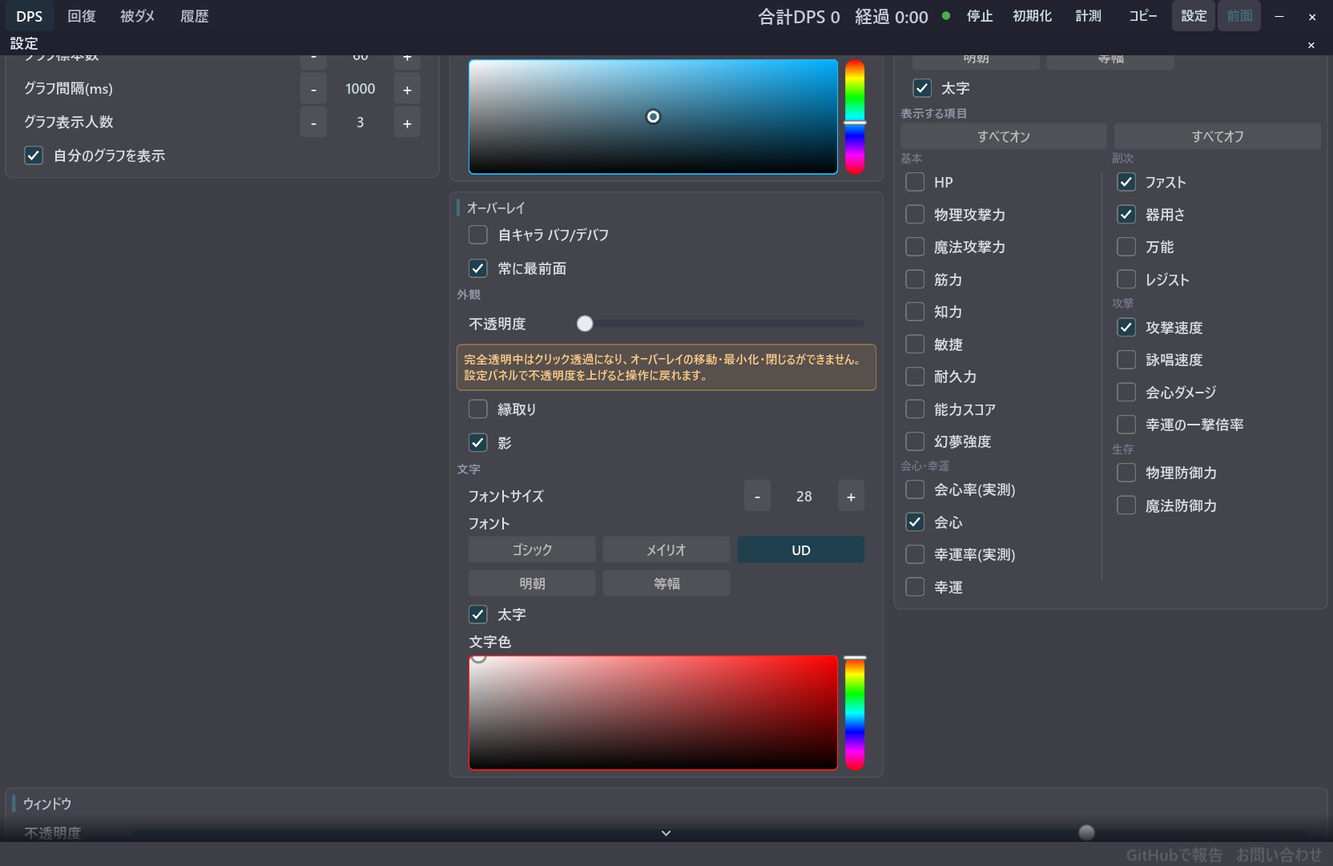
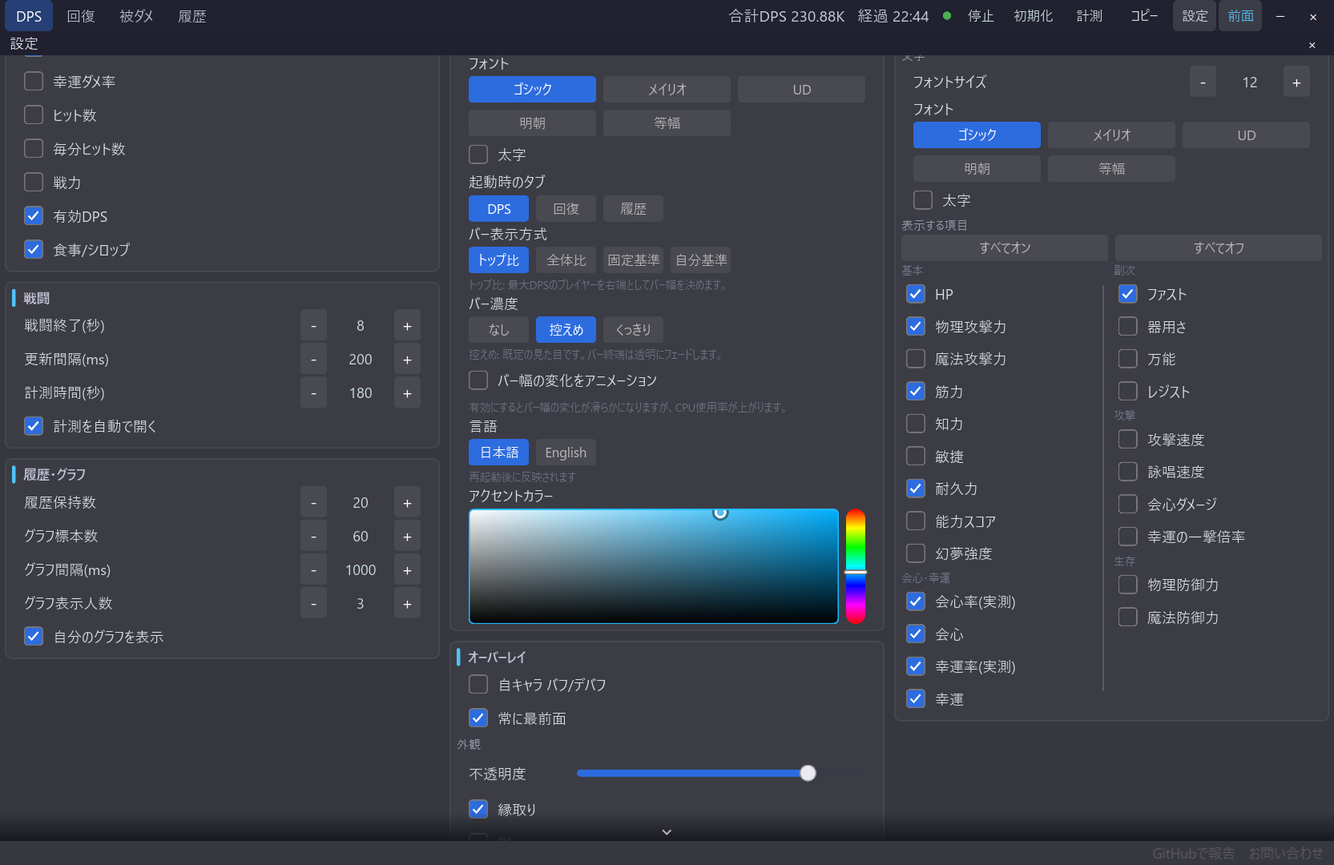
docs: 機能別スクリーンショットを刷新

diff --git a/README.en.md b/README.en.md
@@ -13,39 +13,47 @@
 Built with **Slint (a native Rust GUI)**. It focuses on just the features you actually need during combat and measurement, so it keeps CPU and memory usage low and stays smooth even over long sessions, while still letting you display a semi-transparent overlay on top of the game. **It never sends any data to external servers.**
 
 <p align="center">
-  <img src="docs/images/main.png" alt="Main window — DPS list (semi-transparent overlay)" width="820">
+  <img src="docs/images/feature-language-english.png" alt="Main window — normal DPS list in English" width="820">
 </p>
 
 ## Features
 
-- **DPS / Healing / Damage Taken / History tabs** — Aggregates damage dealt, healing, and damage taken with tab switching (column headers and totals follow the tab). Encounters are saved automatically when combat ends, and **past logs survive app restarts** (stored on disk).
-- **Per-skill breakdown** — Click a player to see damage, hit count, and crit rate for each of that player's skills.
-- **Battle Imagine name** — Shows each player's equipped Battle Imagines (Tina / Airona / Tatta / Basilisk, etc.) with their tier level appended to the name column of the DPS list (e.g. `Sora-Tina(3)/Airona(1)`). Your own is detected on every map transition; other players are detected when a dungeon loads or a boss room transition occurs, so even Imagines that rarely activate are reliably shown. Simplified Battle Imagines slotted into the Role Skill category (up to 4 at once) are shown separately from your two equipped Battle Imagines, appended in `(R:name)` form (e.g. `Sora-Tina(3)/Airona(1) (R:Tempest Ogre/Fafala)`). `{imagine}` (the two equipped slots) and `{roleSkill}` (the Role Skill slots) are independent tokens in the name-column template, so each can be repositioned or removed to hide. When the column runs out of width, role skills are shortened first, then Imagines, and the player name last. It is always shown in the header of the per-skill breakdown you open by clicking a player. Imagine names can be maintained manually in a dedicated editor window opened from Settings — override display names or hide specific Imagines (overrides affect display only, never detection or records).
-- **Measurement mode** — A dedicated mode for training dummies and boss practice that aggregates for a fixed duration from the start of combat (default 180s, adjustable). The results screen shows per-character and per-skill DPS trend graphs (with time and DPS axes) and a pie chart of the skill breakdown (TOP 10 + others). It also **auto-records your personal best per measurement duration** and celebrates with a "New record!" badge; the TOP 3 are highlighted in gold/silver/bronze, and a timestamped result image can be copied with one click to share on Discord and elsewhere. DPS during and after the measurement is divided by the fixed duration from the start of the measurement (idle time counts toward the denominator too, matching the in-game measurement).
-- **Effective DPS column** — Shows DPS divided only by the time you were actually attacking, side by side with the regular DPS (toggle it in the column settings). Useful in real fights with movement and downtime, where you want your output with the idle time excluded.
-- **Imagine (Battle Imagine) debuff timer** — Displays the remaining immunity-debuff time for Tina / Aluna / Tata / Basilisk / Kartgriff in a separate overlay. By default it syncs with the DPS list, automatically following which players are shown and their order (order-following can be turned off individually); use the pin icon to hide/show each player in the timer. Turn sync off to fall back to the classic mode that only shows targets you pinned manually, with a clear-all action provided. The Imagine types shown can be selected individually to match your party composition. A compact dense layout is also supported. Column headers show the katakana name and a per-character color ring (Tina red / Aluna green / Tata purple / Basilisk brown / Kartgriff cyan) for visibility.
-- **Self buff/debuff display** — Shows the buffs/debuffs currently on your own character in a separate window. They are shown as icons with a remaining-time bar so you can grasp them at a glance. Stacking buffs follow the stack count (×N) and timer updates.
-- **Self status display** — Shows your character's stats such as Attack, Crit, and HP in a dedicated real-time overlay. Which items to show can be freely customized per in-game panel group (bulk ON/OFF supported).
-- **Food / syrup display** — Shows each player's food and syrup buff usage as a vertical remaining-time timer in the name column of the DPS list. Hover an icon to see the effect and remaining time. Remaining time is preserved across combat end, manual reset, and app restart (expired ones disappear automatically). Can be toggled ON/OFF in settings.
-- **Debuff-timer-only mode (lightweight)** — A resource-saving mode that stops DPS/healing aggregation and runs only the debuff timer. While it is on, the DPS list shows "Imagine-only mode is active" so the paused aggregation is obvious, with a button to turn it off without opening the settings panel.
-- **Class icon display** — Shows the class icon, tinted by role color (attacker / tank / healer), at the `{classIcon}` position in the DPS name-column template (before the name by default). Remove the token to hide it.
-- **Selectable row-bar display mode** — Choose from 4 scales for the horizontal bar (gauge) of each row in the DPS list: relative to top (default) / share of party total / fixed scale (the right edge is pinned to a user-specified value and the bar length shows your average DPS over the last N seconds) / self-relative (your own bar is fixed at the 50% position and other players are shown relative to you, with a 50% guide line). Bar intensity can be set to none / subtle / strong, and an optional animation smooths bar-width changes (off by default since it slightly increases CPU usage).
-- **2-column compact layout** — A layout mode that splits the DPS table into two columns to save horizontal space.
-- **DPS trend graph** — Visualizes each player row's DPS trend as a small sparkline.
-- **Always-on-top / click-through / taskbar–tray switching** — Essential for overlay use. Buttons in the title bar let you minimize and toggle always-on-top pinning with one tap, and when the window is narrow the header automatically switches to icon-only. Minimizing collapses to the **system tray** by default (minimizing the main window also tucks away the overlays; restore via left-click on the tray icon or right-click → "Show main"). Enabling "Keep in taskbar" in settings makes the main window and each overlay their **own taskbar buttons**, so each window's minimize button minimizes it to the taskbar. Each overlay can be closed with the × button at the top right (linked to the show toggle in settings). Click-through (passing clicks through to the game behind) is toggled and released from the tray. Each window can be resized by dragging its edges.
-- **Global shortcut keys** — Assign global shortcut keys (they work even while the game window has focus) to reset, pause/resume, start/cancel the 3-minute measurement, copy the list, and toggle always-on-top. Configured from the settings panel; nothing is assigned by default. Keys other than F1-F12 must be combined with Ctrl, Alt, or Win, but a checkbox in the dialog also allows single-key shortcuts.
-- **Overlay appearance customization** — The background opacity, font, text size, bold, and text color of each overlay can be configured independently of the main window. Text color and the app's accent color can be freely adjusted with an HSV picker.
-- **Copy templates** — Copy aggregated results to the clipboard in any format (e.g. for pasting into Discord).
-- **Multi-language** — Japanese / English.
-- **Character selection** — When auto-detection is wrong, you can fix your own character by entering its UID directly in the settings panel or selecting from the current player candidates (the name is resolved and shown from the name cache).
-- **Footer contact links** — A semi-transparent footer at the bottom of the main window (can be hidden in settings) lets you open a contact form or file a GitHub issue in your default browser.
+Feature details and screenshots are organized into separate pages.
 
-### Screenshots
+### Metrics and measurement
 
-| | |
-|---|---|
-| <img src="docs/images/result-3min.png" alt="3-minute measurement results" width="400"><br>**3-minute measurement results** — Per-character/skill DPS trends and a breakdown pie chart | <img src="docs/images/debuff-timer.png" alt="Imagine debuff timer" width="400"><br>**Imagine debuff timer** — Immunity-debuff remaining time shown with per-character color rings |
-| <img src="docs/images/self-status.png" alt="Self buff/debuff display" width="400"><br>**Self buff/debuff display** — A glanceable list of icons with remaining-time bars | <img src="docs/images/settings.png" alt="Settings panel" width="400"><br>**Settings panel** — Opacity, column visibility, copy templates, and more |
+- [DPS, healing, damage taken, and history tabs](docs/features/metrics-tabs.md)
+- [Per-skill breakdown](docs/features/skill-breakdown.md)
+- [Measurement mode](docs/features/measurement-mode.md)
+- [Effective DPS column](docs/features/effective-dps.md)
+- [DPS trend graphs](docs/features/dps-trend.md)
+
+### Player information and buffs
+
+- [Battle Imagine names](docs/features/battle-imagine-names.md)
+- [Imagine debuff timer](docs/features/imagine-debuff-timer.md)
+- [Self buff/debuff overlay](docs/features/self-buffs-debuffs.md)
+- [Self status overlay](docs/features/self-status.md)
+- [Food and syrup display](docs/features/food-syrup.md)
+- [Imagine-only mode](docs/features/imagine-only-mode.md)
+- [Class icons](docs/features/class-icons.md)
+- [Character selection](docs/features/character-selection.md)
+
+### Display and controls
+
+- [Row-bar display modes](docs/features/dps-bars.md)
+- [Two-column compact layout](docs/features/compact-layout.md)
+- [Overlay window controls](docs/features/overlay-window-controls.md)
+- [Global shortcuts](docs/features/global-shortcuts.md)
+- [Overlay appearance](docs/features/overlay-appearance.md)
+- [Copy templates](docs/features/copy-templates.md)
+
+### Other
+
+- [Language support](docs/features/multilanguage.md)
+- [Footer contact links](docs/features/contact-links.md)
+
+> Feature pages are currently written in Japanese; the screenshots include both Japanese and English UI where relevant.
 
 ## Installation
 
@@ -121,7 +129,7 @@ For details, see [`core/src/capture/windivert.rs`](./core/src/capture/windivert.
 1. Launch the app (UAC will request administrator privileges, just like the game).
 2. Start the game and begin combat — damage is detected automatically.
 3. Click a player row to see the per-skill breakdown.
-4. When combat ends (no damage for 10 seconds by default), it is saved to history automatically.
+4. When combat ends (no damage for 8 seconds by default), it is saved to history automatically.
 
 ### System tray
 
@@ -133,7 +141,7 @@ For details, see [`core/src/capture/windivert.rs`](./core/src/capture/windivert.
 
 ### Settings panel
 
-Open it with the **S** button in the header. Main items:
+Open it with the **Settings** button in the header (slider icon in narrow layouts). Main items:
 
 - Fixing your character UID / selecting from candidates
 - Opacity, font size, column visibility (including ON/OFF for food/syrup display)

diff --git a/docs/images/SHOTLIST.md b/docs/images/SHOTLIST.md
@@ -1,54 +1,47 @@
 # ドキュメント用スクリーンショット
 
-README と機能ドキュメントが参照する画像一覧。全てデモモード（下記）で撮影したもので、
-実プレイヤーの名前・データは一切含まない（プレイヤー名は架空、対象は訓練用ダミー）。
+README と機能ドキュメントで使う実機 UI の撮影台帳です。すべて隔離したデモ用 `APPDATA` と合成データで撮影しており、実プレイヤーの情報は含みません。通常利用では使わない「軽量分割表示」は、その機能ページの2枚だけに限定しています。
 
 | ファイル名 | 内容 |
 |---|---|
-| `main.png` | メイン画面（DPS タブ・8人パーティ・行スパークライン・自分強調。ヘッダーは観測ドット/停止/初期化/計測/コピー/設定/前面ピン/最小化） |
-| `result-3min.png` | 3 分計測の結果画面（DPS 推移折れ線＋スキル円グラフ＋画像コピー） |
-| `debuff-timer.png` | イマジンデバフタイマー（4人追跡・色リング） |
-| `self-status.png` | 自キャラ バフ/デバフ（残時間バー・×N スタック表示） |
-| `feature-compact-layout.png` | 軽量分割表示を ON にした実際の2列 DPS 一覧 |
-| `feature-effective-dps.png` | 有効 DPS 列を表示した実際の DPS 一覧 |
-| `feature-history.png` | 履歴タブを開いた実際のメイン画面 |
-| `feature-skill-breakdown.png` | プレイヤーのスキル別ダメージ内訳画面 |
-| `feature-imagine-only.png` | イマジン専用モードの専用バナー画面 |
+| `feature-main-overview.png` | 通常表示の DPS 一覧。8人、職業アイコン、イマジン名、食事/シロップ、推移、行バー、ヘッダー、フッター |
+| `feature-skill-breakdown.png` | 通常一覧から開いたプレイヤーのスキル別ダメージ・DPS・構成比 |
+| `result-measurement.png` | 計測結果。順位、推移グラフ、スキル一覧、円グラフ、コピー操作、v1.25.0 |
+| `feature-history.png` | 実際に完了した計測結果が1件入った履歴タブ |
+| `feature-effective-dps.png` | 有効 DPS 列を表示した通常一覧 |
+| `feature-effective-dps-settings.png` | 有効 DPS 列を ON にした設定 |
+| `feature-food-syrup.png` | 食事/シロップの残時間アイコンを表示した通常一覧 |
+| `feature-compact-layout.png` | 軽量分割表示を ON にした2列一覧 |
+| `feature-compact-layout-settings.png` | 軽量分割表示を ON にした設定 |
+| `feature-imagine-debuff-timer.png` | イマジンデバフタイマーの独立オーバーレイ |
+| `feature-imagine-debuff-timer-settings.png` | タイマーを ON にした設定 |
+| `feature-imagine-only.png` | 通常レイアウト上のイマジン専用モード案内 |
+| `feature-imagine-only-settings.png` | イマジン専用モードを ON にした設定 |
+| `feature-self-buffs-debuffs.png` | 自キャラのバフ/デバフ名、残時間バー、スタック数 |
 | `feature-self-status.png` | 自キャラステータスの独立オーバーレイ |
+| `feature-self-status-settings.png` | 自キャラステータスと項目グループの設定 |
+| `feature-settings-overview.png` | 設定上部。キャラ、列、戦闘、表示、タイマー、ステータス |
+| `feature-settings-bottom.png` | オーバーレイ外観とテンプレート |
+| `feature-settings-actions.png` | テンプレート、イマジン名編集、ショートカット設定、バージョン |
 | `feature-shortcuts.png` | グローバルショートカット設定ダイアログ |
-| `feature-settings-overview.png` | 機能設定を含む設定パネル上部 |
-| `feature-settings-bottom.png` | ウィンドウ・テンプレート・ショートカット設定 |
-| `feature-overlay-appearance.png` | オーバーレイ外観設定（透明度・フォント・文字色） |
-| `feature-footer.png` | フッターリンクとウィンドウ操作を含むメイン画面 |
-| `settings.png` | 設定パネル（3列レスポンシブ） |
+| `feature-overlay-appearance.png` | オーバーレイ表示とステータス項目の設定 |
+| `feature-overlay-appearance-detail.png` | 不透明度、縁取り、影、フォント、文字色の設定 |
+| `feature-language-english.png` | 英語表示へ切り替えた通常一覧 |
+| `feature-language-english-settings.png` | 英語表示へ切り替えた設定 |
 
-## デモモードでの再撮影手順
+## 再撮影手順
 
-実ゲーム・WinDivert・管理者権限すべて不要（`core/src/engine/demo.rs`）。
+`scripts/run-mcp.ps1` を使い、Slint の埋め込み MCP からウィンドウ単位で撮影します。
 
 ```powershell
-# 一時 APPDATA（target/demo-appdata/ に settings.json / watchlist.json を用意）で
-# 実環境の設定・キャッシュを汚さずに起動する
 $env:APPDATA = "<repo>\target\demo-appdata"
-$env:BPSR_DEMO = "1"
-# 任意: $env:BPSR_DEMO_OPEN_SETTINGS = "1"  … 設定パネルを開いた状態で起動
-# 任意: $env:BPSR_DEMO_3MIN = "180"          … 3分計測を自動開始（結果画面の撮影用）
-cargo run -p bpsr-app
+$env:BPSR_DEMO_3MIN = "30" # 結果画面を撮る場合だけ指定
+pwsh scripts/run-mcp.ps1
 ```
 
-撮影メモ:
-- メイン画面のライブ行スパークラインが溜まるまで 2〜3 分待つ（`timeSeriesSamples` の
-  ローリング窓ぶん）。3分計測 結果グラフは設定値に関わらず計測ウィンドウ全体を保持するため
-  `timeSeriesSamples` を上げる必要はない（計測開始〜末尾まで端から端に描画される）。
-- `debuff-timer.png` は auto-add が全員（デバフ無しの空行も）を追加してしまうため、
-  デモ用 settings.json で `"autoAddPlayers": false`、watchlist.json の `watched` を
-  デバフ保持者の `[90001, 90002, 90003, 90004]`（ソラ/カエデ/ハヤテ/ノクス）に固定する
-  （demo.rs の IMAGINE_DEBUFFS がこの4 UID のみ）。`excluded` は空に。
-- ウィンドウ単位の撮影は暗背景の上で行うと透明部分が締まる。背景フォームは TopMost 化＋
-  撮影直前に topmost 前面へ再アサート済（`target/demo-shot.ps1`）なので、ゲーム本体
-  (StarASIA) が起動中でも半透明アプリ背景にゲーム画面が透けない。背景はフルスクリーン昇格を
-  避けるため画面より 1px 小さく手動配置（Maximized にしない）。リサイズ直後は再描画前で
-  透明になるので 2 秒以上（SettleMs 2500 推奨）待ってからキャプチャする。
-- 3分計測の結果は実時間で 180 秒経過後に表示される（`BPSR_DEMO_3MIN=180`）。撮影環境では
-  Start-Sleep が実時間を消費しない場合があるため、ツール呼び出しの「間」に実時間を経過させる
-  （sleep でアプリの計測時間は止まらない＝実クロックで進む）。
+- 通常機能は `compactSplitMode: false` の通常表示で撮影する。
+- コンパクト表示は `compact-layout.md` 用の2枚だけ撮影する。
+- 設定、履歴、各オーバーレイは、対象機能を実際に ON にしてから撮影する。
+- 履歴は計測を完了させ、空表示ではなく記録が入った状態を撮影する。
+- 言語変更は再起動後に反映されるため、英語画像は `language: "en"` で再起動して撮影する。
+- 撮影後は画像を目視し、機能名・説明・表示内容が一致することを確認する。

diff --git a/docs/features/skill-breakdown.md b/docs/features/skill-breakdown.md
@@ -2,14 +2,14 @@
 
 [機能一覧に戻る](../../README.md#主な機能)
 
-プレイヤー行をクリックすると、そのプレイヤーのスキルごとのダメージ、ヒット数、会心率を確認できます。どのスキルが総ダメージを作っているかを、戦闘後に振り返るための画面です。
+プレイヤー行をクリックすると、そのプレイヤーのスキルごとのダメージ、DPS、構成比を確認できます。どのスキルが総ダメージを作っているかを、戦闘中や戦闘後に振り返るための画面です。
 
 計測モードの結果画面では、スキル一覧の行を選んで、対象スキルの DPS 推移グラフへ切り替えることもできます。スキル内訳は TOP10 とその他にまとめた円グラフでも確認できます。
 
 ## 使い方
 
 1. DPS 一覧でプレイヤー行をクリックします。
-2. スキルのダメージ量、ヒット数、会心率を確認します。
+2. スキルのダメージ量、DPS、構成比を確認します。
 3. 計測結果ではプレイヤーを選び、スキル行をクリックして推移を切り替えます。
 
 ## スクリーンショット
@@ -18,13 +18,13 @@
   <img src="../images/feature-skill-breakdown.png" alt="プレイヤーのスキル別ダメージ内訳" width="820">
 </p>
 
-計測結果の下部に、選択したプレイヤーのスキル内訳と、スキル構成を示す円グラフが表示されます。
+通常の DPS 一覧でプレイヤー行を開くと、スキル名・ダメージ・DPS・構成比が表示されます。
 
 <p align="center">
-  <img src="../images/main.png" alt="プレイヤー行が並ぶDPS一覧" width="820">
+  <img src="../images/result-measurement.png" alt="プレイヤー別とスキル別の内訳を表示した計測結果" width="820">
 </p>
 
-通常の DPS 一覧でも、プレイヤー行をクリックして詳細を開けます。
+計測結果ではプレイヤーとスキルを選び、DPS 推移と構成比を詳しく確認できます。
 
 ## 関連
 

diff --git a/docs/features/compact-layout.md b/docs/features/compact-layout.md
@@ -4,13 +4,13 @@
 
 DPS テーブルを左右2列に分割し、同じ人数をより小さい横幅で表示するレイアウトモードです。狭いオーバーレイや、ゲーム画面の端に置く運用に向いています。
 
-通常表示との切り替えは設定から行います。表示列を増やしすぎると文字が読みにくくなるため、コンパクト表示では名前列と必要な数値を優先して調整します。
+通常表示との切り替えは設定から行います。コンパクト表示では、各行を名前・ダメージ・DPS に絞った固定構成で左右へ振り分けます。
 
 ## 使い方
 
 1. 設定パネルで軽量分割表示を ON にします。
 2. オーバーレイの幅をゲーム画面に合わせます。
-3. 必要な列だけを残し、名前列テンプレートも短くします。
+3. 名前が長く切れる場合は、ウィンドウを広げるか名前列テンプレートを短くします。
 
 ## スクリーンショット
 
@@ -18,7 +18,7 @@ DPS テーブルを左右2列に分割し、同じ人数をより小さい横幅
   <img src="../images/feature-compact-layout.png" alt="軽量分割表示をONにした2列のDPS一覧" width="820">
 </p>
 
-通常の一覧では、行バーや推移グラフを含む情報を表示します。
+名前・ダメージ・DPS に絞った一覧を左右2列で表示します。行間も詰まりすぎず、各プレイヤーを判別できます。
 
 <p align="center">
   <img src="../images/feature-compact-layout-settings.png" alt="軽量分割表示を有効にした設定パネル" width="820">

diff --git a/docs/features/multilanguage.md b/docs/features/multilanguage.md
@@ -9,24 +9,24 @@
 ## 使い方
 
 1. 設定パネルで言語を Japanese または English に切り替えます。
-2. メイン画面とオーバーレイの表示を確認します。
-3. 必要に応じてフォントや文字サイズを調整します。
+2. アプリを再起動して変更を反映します。
+3. メイン画面とオーバーレイの表示を確認し、必要に応じてフォントや文字サイズを調整します。
 
 日本語表示では日本語フォント、英語表示では英語文字を含むフォントが読みやすい設定です。
 
 ## スクリーンショット
 
 <p align="center">
-  <img src="../images/main.png" alt="日本語表示のメイン画面" width="820">
+  <img src="../images/feature-language-english.png" alt="英語表示へ切り替えた通常のメイン画面" width="820">
 </p>
 
-メイン画面のタブ、列、オーバーレイは言語を切り替えても同じ構成で使えます。
+再起動後は、メイン画面のタブ、列、操作名が英語表示になります。
 
 <p align="center">
-  <img src="../images/feature-settings-overview.png" alt="日本語とEnglishを切り替える設定パネル" width="820">
+  <img src="../images/feature-language-english-settings.png" alt="英語表示へ切り替えた設定パネル" width="820">
 </p>
 
-設定パネルから表示や言語に関する項目を変更できます。
+設定パネルにも選択中の言語が反映されます。言語欄には、変更が再起動後に適用されることも表示されます。
 
 ## 関連
 

diff --git a/README.md b/README.md
@@ -13,7 +13,7 @@
 **Slint（Rust ネイティブ GUI）** で実装。戦闘中・計測で本当に必要な機能に絞っているため、CPU・メモリの消費が小さく、長時間でも軽快に安定して動作します。ゲーム画面の上に半透明オーバーレイ表示も可能。**外部サーバへのデータ送信は一切ありません。**
 
 <p align="center">
-  <img src="docs/images/main.png" alt="メイン画面 — DPS 一覧（半透明オーバーレイ表示）" width="820">
+  <img src="docs/images/feature-main-overview.png" alt="メイン画面 — 通常のDPS一覧（半透明オーバーレイ表示）" width="820">
 </p>
 
 ## 主な機能
@@ -127,7 +127,7 @@
 1. アプリを起動 (UAC でゲーム同様に管理者権限を要求します)
 2. ゲームを起動して戦闘を開始すると、ダメージが自動検出されます
 3. プレイヤー行をクリックするとスキル別の内訳を表示
-4. 戦闘終了 (デフォルト 10 秒間ダメージなし) で履歴に自動保存
+4. 戦闘終了 (デフォルト 8 秒間ダメージなし) で履歴に自動保存
 
 ### タスクトレイ
 
@@ -139,7 +139,7 @@
 
 ### 設定パネル
 
-ヘッダーの **S** ボタンから開きます。主な項目:
+ヘッダーの **設定** ボタン（狭い表示ではスライダーアイコン）から開きます。主な項目:
 
 - 自キャラ UID の固定 / 候補からの選択
 - 透明度・フォントサイズ・列の表示切替（食事 / シロップ表示の ON/OFF を含む）

diff --git a/docs/features/self-buffs-debuffs.md b/docs/features/self-buffs-debuffs.md
@@ -2,7 +2,7 @@
 
 [機能一覧に戻る](../../README.md#主な機能)
 
-自分のキャラクターに現在かかっているバフとデバフを、別ウィンドウで日本語表示します。アイコンと残時間バーを並べるため、戦闘中に更新状況をひと目で確認できます。
+自分のキャラクターに現在かかっているバフとデバフを、別ウィンドウで日本語表示します。効果名と残時間バーを並べるため、戦闘中に更新状況をひと目で確認できます。
 
 スタック制バフは重ね掛け数を ×N で表示し、効果時間の更新にも追従します。メイン画面とは独立したオーバーレイなので、ゲーム画面の見やすい位置へ移動して使えます。
 
@@ -15,7 +15,7 @@
 ## スクリーンショット
 
 <p align="center">
-  <img src="../images/self-status.png" alt="自キャラのバフとデバフのオーバーレイ" width="820">
+  <img src="../images/feature-self-buffs-debuffs.png" alt="自キャラのバフとデバフのオーバーレイ" width="820">
 </p>
 
 バフとデバフを分け、残時間バーとスタック数を表示します。

diff --git a/docs/features/overlay-appearance.md b/docs/features/overlay-appearance.md
@@ -16,13 +16,13 @@
 ## スクリーンショット
 
 <p align="center">
-  <img src="../images/feature-overlay-appearance.png" alt="透明度・フォント・文字色を含む外観設定" width="820">
+  <img src="../images/feature-overlay-appearance-detail.png" alt="透明度・フォント・文字色を含む外観設定" width="820">
 </p>
 
 設定パネルでは、オーバーレイ用の外観をまとめて調整できます。
 
 <p align="center">
-  <img src="../images/debuff-timer.png" alt="外観設定を反映したデバフタイマー" width="820">
+  <img src="../images/feature-imagine-debuff-timer.png" alt="外観設定を反映したデバフタイマー" width="820">
 </p>
 
 文字色と背景の見え方は、ゲーム画面の上に置いたときの視認性を基準に調整します。

diff --git a/docs/features/overlay-window-controls.md b/docs/features/overlay-window-controls.md
@@ -18,13 +18,13 @@
 ## スクリーンショット
 
 <p align="center">
-  <img src="../images/feature-footer.png" alt="最前面ピンとウィンドウ操作ボタンのあるメイン画面" width="820">
+  <img src="../images/feature-main-overview.png" alt="最前面ピンとウィンドウ操作ボタンのある通常メイン画面" width="820">
 </p>
 
 メイン画面のヘッダーから、最前面ピンや最小化などの操作を行えます。
 
 <p align="center">
-  <img src="../images/debuff-timer.png" alt="独立オーバーレイの例" width="820">
+  <img src="../images/feature-imagine-debuff-timer.png" alt="独立オーバーレイの例" width="820">
 </p>
 
 イマジンタイマーやバフ・デバフ窓も、メイン画面とは別の位置へ移動して使えます。
